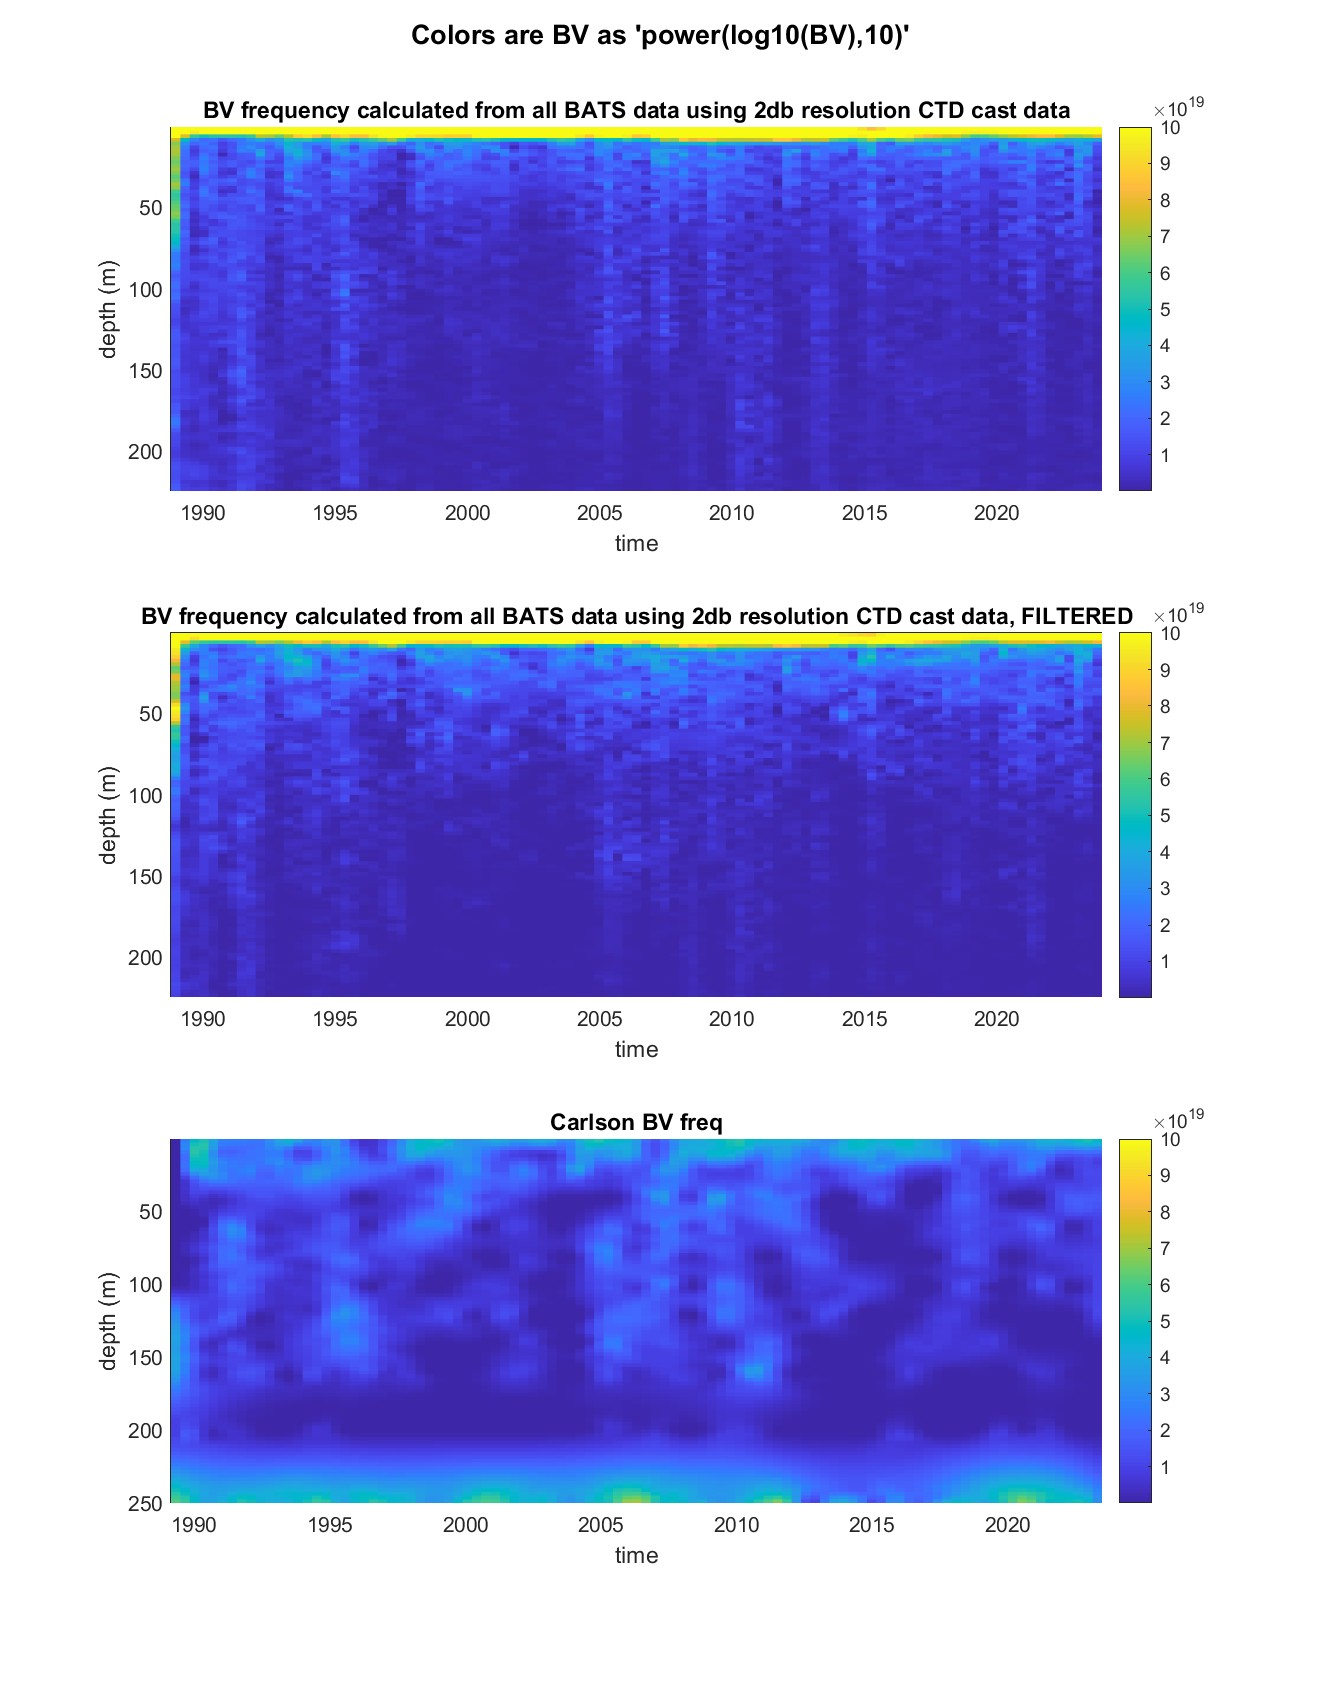
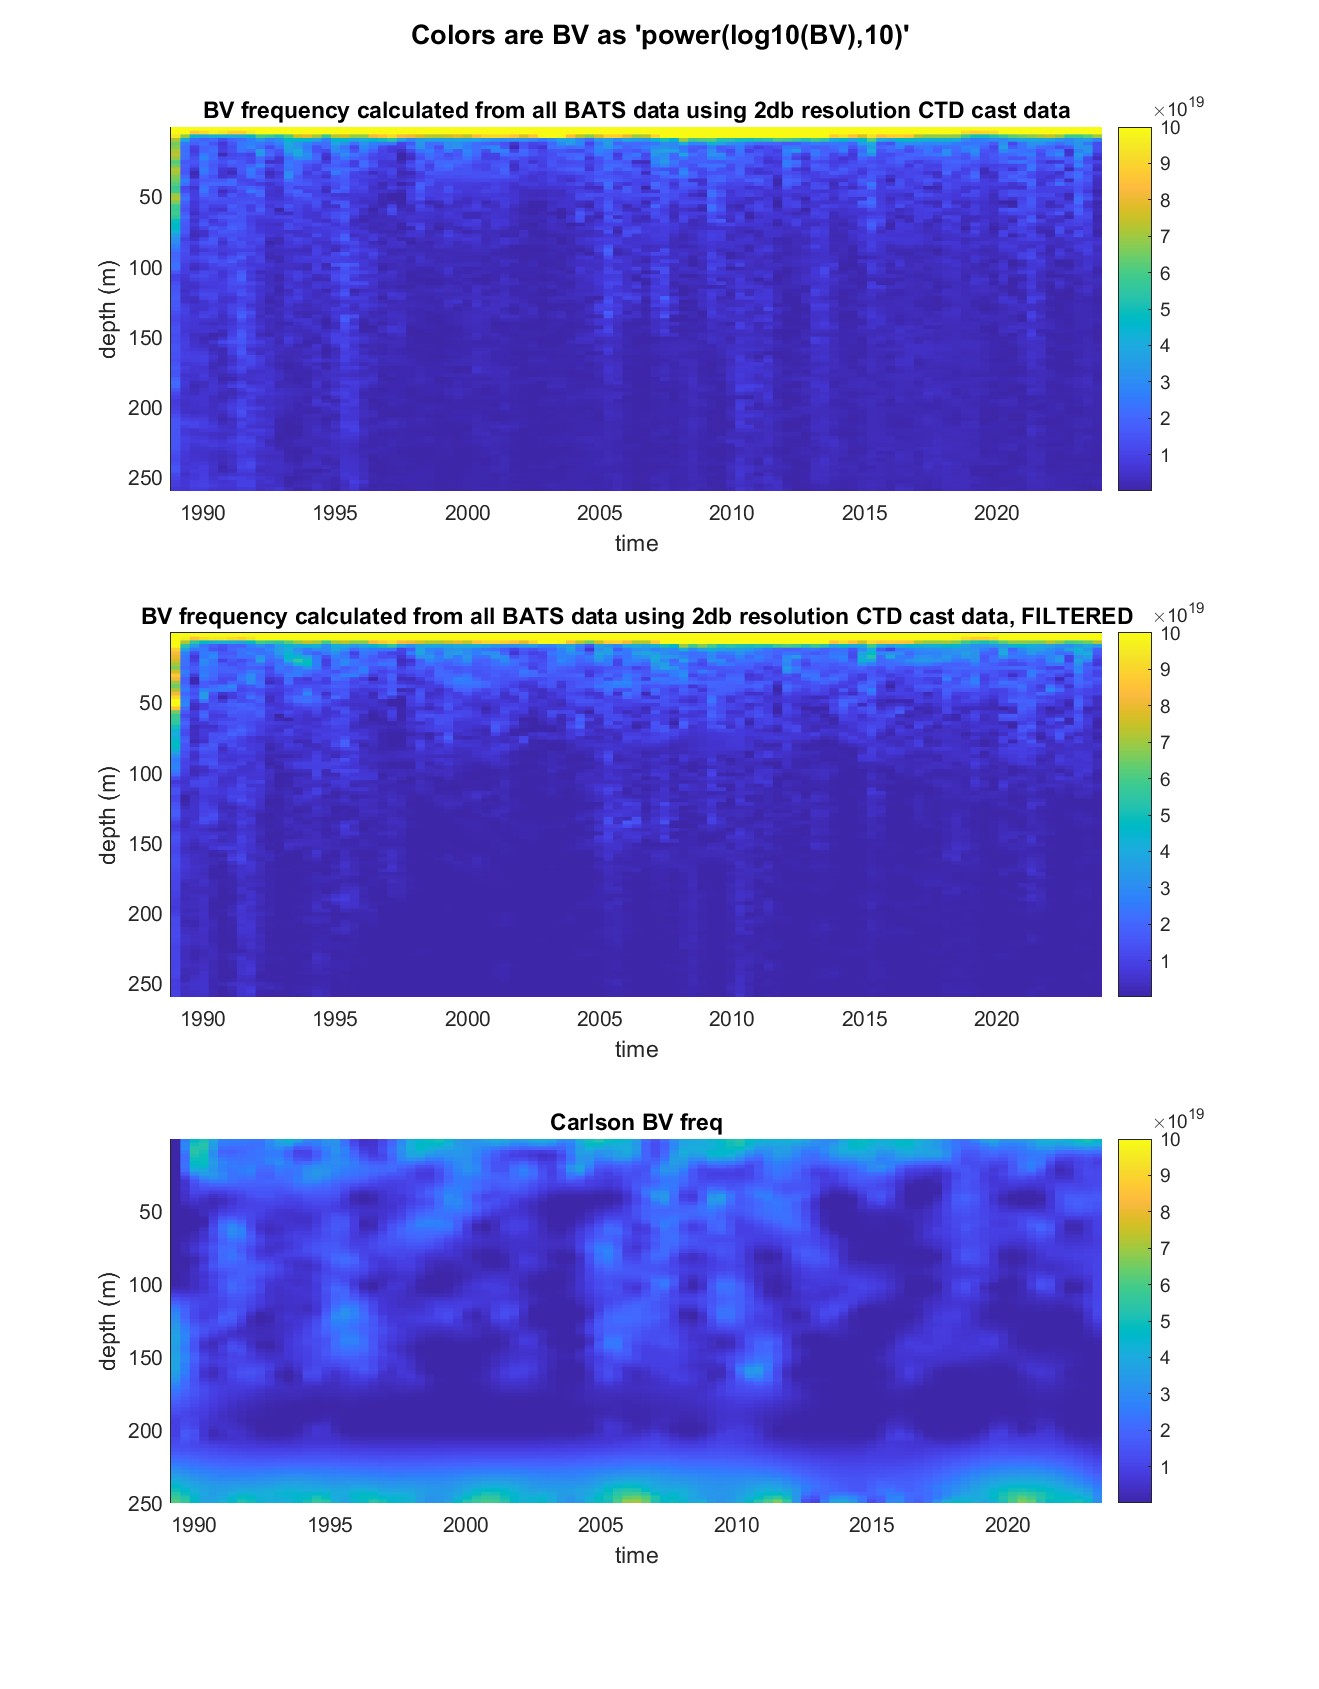
update comparison KL v. CC

diff --git a/compare_BV.m b/compare_BV.m
@@ -5,27 +5,32 @@
 clear all
 close all
 
-load('BATSdataForBVplots.2025.04.04.mat');
-%need cruise to compare with Craig's calculation
-for a = 1:size(allData,1)
-    if rem(a,50000)==1 
-        fprintf('iteration %d for %d peaks\n',a,size(allData,1)) 
+load workingBV.mat
+
+if 0 % COMMENT this out if I already have the pieces I need...
+    load('BATSdataForBVplots.2025.04.04.mat');
+    %need cruise to compare with Craig's calculation
+    for a = 1:size(allData,1)
+        if rem(a,50000)==1 
+            fprintf('iteration %d for %d peaks\n',a,size(allData,1)) 
+        end
+    
+        one = char(string(allData.BATS_id(a)));
+        cruise5(a,1) = {one(1:5)}; %do this, rewriting the table is slow!
+        clear one
     end
-
-    one = char(string(allData.BATS_id(a)));
-    cruise5(a,1) = {one(1:5)}; %do this, rewriting the table is slow!
-    clear one
+    clear a
+    allData.depth_rounded = round(allData.Depth);
+    
+    k = find(allData.bvfrq==-999);
+    allData.bvfrq(k) = NaN;
+    clear k
+    
+    k = find(allData.bvfilt==-999);
+    allData.bvfilt(k) = NaN;
+    clear k
 end
-clear a
-allData.depth_rounded = round(allData.Depth);
 
-k = find(allData.bvfrq==-999);
-allData.bvfrq(k) = NaN;
-clear k
-
-k = find(allData.bvfilt==-999);
-allData.bvfilt(k) = NaN;
-clear k
 
 T = readtable('Brunt-V_is_l__Frequency_Data_2.xlsx'); %this is Craig's file
 
@@ -41,6 +46,11 @@ k = find(allData.bvfilt<0);
 allData.bvfilt(k) = small;
 clear k
 
+%find requires exact depth match, use interp1 to get closest match
+%vq = interp1(v,xq);
+% vq = interp1(allData.Depth,T.Depth_m_,'nearest');
+% T.test = vq;
+
 for a = 1:size(T,1)
     if rem(a,1000)==1 
         fprintf('iteration %d for %d peaks\n',a,size(T,1)) 
@@ -54,13 +64,13 @@ for a = 1:size(T,1)
    clear one r
 
    s = strcmp(T.cruise(a),cruise5);
-   ks = find(s==1 & T.Depth_m_(a)==allData.depth_rounded);
-
+   %ks = find(s==1 & T.Depth_m_(a)==allData.depth_rounded); %was
+   ks = find(s==1 & (T.Depth_m_(a) > allData.Depth*0.8 & T.Depth_m_(a) < allData.Depth*1.2));
+     
    if ~isempty(ks)
-        %From Ruth (4/9/2025, change to this);
-        T.BV_KL_count(a) = length(ks);
-        %T.BV_KL(a) = power(nansum(log10(allData.bvfrq(ks)))./length(ks),10);
         T.BV_KL(a) = power(nansum(log10(allData.bvfilt(ks)))./length(ks),10);
+   else
+       T.BV_KL(a) = NaN;
    end
    clear s ks
 end
@@ -70,16 +80,24 @@ clear a
 % gscatter(T.BV_KL, T.BV_CC, T.BV_KL_count,[],[],20)
 plot(T.BV_KL, T.BV_CC,'.')
 hold on
-% YL = ylim;
-% line(xlim,xlim,'color','k')
-% ylim(YL)
 xlabel('BV from KL, filtered with Ruth''s code')
 ylabel('BV from Craig')
 title('Values at 10^2^0 are negative BV (unstable, converted to fixed value)')
 set(gca,'yscale','log')
 set(gca,'xscale','log')
 
+figure
+colordots2([T.BV_KL, T.BV_CC,T.Depth_m_],20,1,'parula')
+xlabel('BV from KL, filtered with Ruth''s code')
+ylabel('BV from Craig')
+title('Values at 10^2^0 are negative BV (unstable, converted to fixed value)')
+set(gca,'yscale','log')
+set(gca,'xscale','log')
+set(gcf,'position',[-994 275 897 624])
 saveas(gcf,'BATS_bvfrq_cfKLandCC.jpg')
+
+save('workingBV.mat')
+
 
 
    % 

diff --git a/getBATSdata_LTT_KLv2.m b/getBATSdata_LTT_KLv2.m
@@ -104,13 +104,14 @@ dirlist = dir('*.mat');
 %use the first file to set the stage
 load(dirlist(1).name)
 %Only keeping the upper water column bc that is the focus of this paper.
-%Delete depths more than 220m.
-k = find(TTcast.Depth<225);
+%Delete depths more than 260m.
+maxDepth = 260;
+k = find(TTcast.Depth < maxDepth);
 allData = TTcast(k,:);
 clear TTcast
 for a = 2:length(dirlist)
     load(dirlist(a).name);
-    k = find(TTcast.Depth<225); %only keep upper water column
+    k = find(TTcast.Depth < maxDepth); %only keep upper water column
     allData = [allData ; TTcast(k,:)];
     clear TTcast
 end
